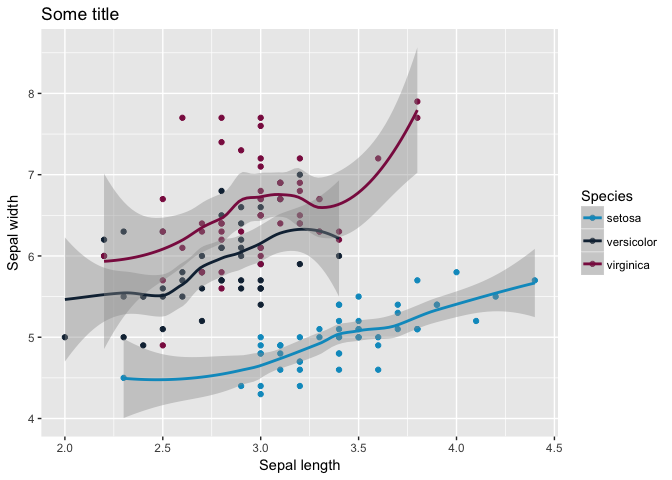
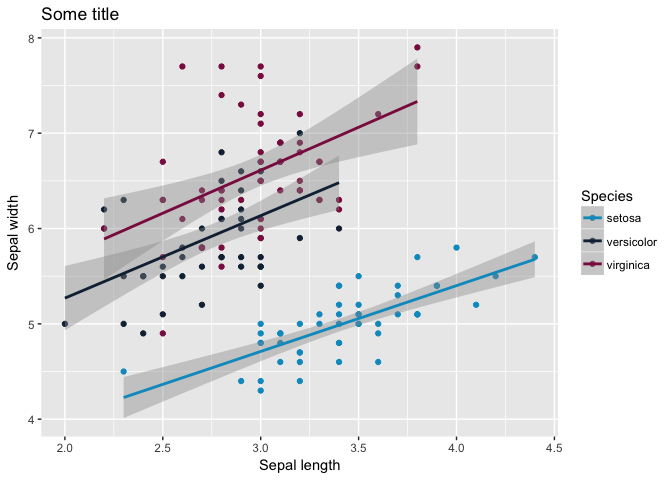
Added plots, saving plots, renamed headers

diff --git a/README.md b/README.md
@@ -1,6 +1,6 @@
 Introduction to R
 ================
-R.Slieker
+r.slieker at vumc.nl
 
 Where to get this page from:
 ----------------------------
@@ -10,8 +10,8 @@ Where to get this page from:
 Introduction
 ------------
 
-The R interface
----------------
+1) The R interface
+------------------
 
 -   Originated from proprietary S programming language
 
@@ -19,10 +19,12 @@ The R interface
 
 -   Save scripts as R files, can be opened with all kinds of software (R, Rstudio, sublime, Notepad etc. )
 
+-   Safer and more reproducible than other software: source data is not changed, scripts can be shared with others
+
 -   Save objects to Rdata files, so you can continue with it next time without the need for rerunning the complete script
 
-Other software to be used with R
---------------------------------
+2) Other software to be used with R
+-----------------------------------
 
 -   Rstudio is very useful: <https://www.rstudio.com/products/RStudio/>
 
@@ -37,12 +39,14 @@ It has many advantages: integrated help, use of tab key, more stable than Rgui.
 Suggested literature:
 ---------------------
 
+*Google is your best friend. Every question has been asked more than once by someone else*
+
 *The art of R programming, Normal Matlof, Starch Press*
 
 *Introductory Statistics with R, Peter Dalgaard, Springer*
 
-Starting simple with R
-----------------------
+3. Starting simple with R
+-------------------------
 
 ``` r
 1+1
@@ -93,8 +97,28 @@ seq(from = 1,to = 5,by=0.5)
 
     ## [1] 1.0 1.5 2.0 2.5 3.0 3.5 4.0 4.5 5.0
 
-The main classes
-----------------
+``` r
+seq(from = 1,to = 5,length.out = 100)
+```
+
+    ##   [1] 1.000000 1.040404 1.080808 1.121212 1.161616 1.202020 1.242424
+    ##   [8] 1.282828 1.323232 1.363636 1.404040 1.444444 1.484848 1.525253
+    ##  [15] 1.565657 1.606061 1.646465 1.686869 1.727273 1.767677 1.808081
+    ##  [22] 1.848485 1.888889 1.929293 1.969697 2.010101 2.050505 2.090909
+    ##  [29] 2.131313 2.171717 2.212121 2.252525 2.292929 2.333333 2.373737
+    ##  [36] 2.414141 2.454545 2.494949 2.535354 2.575758 2.616162 2.656566
+    ##  [43] 2.696970 2.737374 2.777778 2.818182 2.858586 2.898990 2.939394
+    ##  [50] 2.979798 3.020202 3.060606 3.101010 3.141414 3.181818 3.222222
+    ##  [57] 3.262626 3.303030 3.343434 3.383838 3.424242 3.464646 3.505051
+    ##  [64] 3.545455 3.585859 3.626263 3.666667 3.707071 3.747475 3.787879
+    ##  [71] 3.828283 3.868687 3.909091 3.949495 3.989899 4.030303 4.070707
+    ##  [78] 4.111111 4.151515 4.191919 4.232323 4.272727 4.313131 4.353535
+    ##  [85] 4.393939 4.434343 4.474747 4.515152 4.555556 4.595960 4.636364
+    ##  [92] 4.676768 4.717172 4.757576 4.797980 4.838384 4.878788 4.919192
+    ##  [99] 4.959596 5.000000
+
+4. The main classes
+-------------------
 
 -   Numeric and integers
 -   Characters
@@ -140,8 +164,8 @@ list(GroupA = 1:3, GroupB = 2:5 , GroupC = 3:5)
     ## $GroupC
     ## [1] 3 4 5
 
-Objects
--------
+5. Objects
+----------
 
 -   Data frames
 
@@ -223,8 +247,8 @@ mtrx*mtrx
     ## [4,]   16   81  196  361  576
     ## [5,]   25  100  225  400  625
 
-Modifying objects
------------------
+6. Modifying objects
+--------------------
 
 ``` r
 #Adding rownames to files 
@@ -311,8 +335,8 @@ mtrx[1:2] #Different!
 
     ## [1] 1 2
 
-Reading from files
-------------------
+7. Reading from files
+---------------------
 
 R can read all types of files (with or without required packages), such as txt, csv, xlsx (package: xlsx), sav spss file (package: Hmisc)
 
@@ -373,14 +397,27 @@ str(IrisTXT)
     ##  $ Petal.Width : num  0.2 0.2 0.2 0.2 0.2 0.4 0.3 0.2 0.2 0.1 ...
     ##  $ Species     : Factor w/ 3 levels "setosa","versicolor",..: 1 1 1 1 1 1 1 1 1 1 ...
 
-Summary statistics
-------------------
+8. Save to files
+----------------
 
-There are various ways of calcalating summary statistics. A useful function is **by**.
+``` r
+data(iris)
+
+# Save objects in analysis
+save(iris, file="Iris.RData")
+# Load objects from previous sessions
+load("Iris.RData")
+
+#One can also save to common formats such as csv, txt
+write.table(iris, file="Iris as text file.txt", sep="\t", col.names=T, row.names=F)
+write.table(iris, file="Iris as csv file.csv", sep=";", col.names=T, row.names=F)
+```
+
+9. Describing data using descriptive statistics
+-----------------------------------------------
 
 ``` r
 #The iris dataset is a build in dataset
-data(iris)
 
 #Describe dataset
 nrow(iris)
@@ -411,6 +448,12 @@ mean(iris$Sepal.Length)
 ```
 
     ## [1] 5.843333
+
+``` r
+median(iris$Sepal.Length)
+```
+
+    ## [1] 5.8
 
 ``` r
 sd(iris$Sepal.Length)
@@ -502,23 +545,25 @@ biocLite("IRanges")
 Plotting
 --------
 
-R base (without packages) can plot all kind of plots
+R base (without packages) can plot all kind of plots but are not very nice.
+
+ggplot2 is a very commonly used package for plotting. Although the approach is a bit different, the plots are nicer and more flexible to change. For more help see: <http://ggplot2.tidyverse.org/reference/> or google!
 
 ``` r
 library(ggplot2)
 
 #Scatter plot
-plot(IrisCSV$Sepal.Length, IrisCSV$Sepal.Width, xlab="Sepal length", ylab="Sepal width")
+plot(iris$Sepal.Length, iris$Sepal.Width, xlab="Sepal length", ylab="Sepal width")
 ```
 
 ![](README_files/figure-markdown_github-ascii_identifiers/plotting-1.png)
 
 ``` r
-ggplot(IrisCSV, aes(x=Sepal.Length, y=Sepal.Width, col=Species))+
-  geom_point()+
-  ggtitle("Some title")+
-  xlab("Sepal length")+
-  ylab("Sepal width")+
+ggplot(iris, aes(x=Sepal.Length, y=Sepal.Width, col=Species))+ # Define variables
+  geom_point()+ # We want to plot dots
+  ggtitle("Some title")+ #Add title to graph
+  xlab("Sepal length")+ #Add x-axis labels
+  ylab("Sepal width")+ #Add y-axis labels
   scale_color_manual(values = c("#009AC7","#132B41","#8B1A4F"))
 ```
 
@@ -526,13 +571,13 @@ ggplot(IrisCSV, aes(x=Sepal.Length, y=Sepal.Width, col=Species))+
 
 ``` r
 # Boxplot
-boxplot(IrisCSV$Sepal.Length~IrisCSV$Species, xlab="Sepal length", ylab="Sepal width")
+boxplot(iris$Sepal.Length~IrisCSV$Species, xlab="Sepal length", ylab="Sepal width")
 ```
 
 ![](README_files/figure-markdown_github-ascii_identifiers/plotting-3.png)
 
 ``` r
-ggplot(IrisCSV, aes(x=Species, y=Sepal.Length, fill=Species))+ #Define variables
+ggplot(iris, aes(x=Species, y=Sepal.Length, fill=Species))+ #Define variables
   geom_boxplot()+ #What kind of graph?
   ggtitle("Some title")+ #Add title to graph
   xlab("Sepal length")+ #Add x-axis labels
@@ -541,6 +586,18 @@ ggplot(IrisCSV, aes(x=Species, y=Sepal.Length, fill=Species))+ #Define variables
 ```
 
 ![](README_files/figure-markdown_github-ascii_identifiers/plotting-4.png)
+
+``` r
+# Jitter plot
+ggplot(iris, aes(x=Species, y=Sepal.Length, col=Species))+ #Define variables
+  geom_jitter(width=0.2)+
+  ggtitle("Some title")+ 
+  xlab("Sepal length")+ 
+  ylab("Sepal width")+ 
+  scale_colour_manual(values = c("#009AC7","#132B41","#8B1A4F")) 
+```
+
+![](README_files/figure-markdown_github-ascii_identifiers/plotting-5.png)
 
 ``` r
 # Smoothed line graph
@@ -553,10 +610,10 @@ ggplot(IrisCSV, aes(x=Sepal.Width, y=Sepal.Length, col=Species))+
   scale_color_manual(values = c("#009AC7","#132B41","#8B1A4F"))
 ```
 
-![](README_files/figure-markdown_github-ascii_identifiers/plotting-5.png)
+![](README_files/figure-markdown_github-ascii_identifiers/plotting-6.png)
 
 ``` r
-ggplot(IrisCSV, aes(x=Sepal.Width, y=Sepal.Length, col=Species))+
+ggplot(iris, aes(x=Sepal.Width, y=Sepal.Length, col=Species))+
   geom_point()+
   geom_smooth(method=loess)+
   ggtitle("Some title")+
@@ -565,4 +622,20 @@ ggplot(IrisCSV, aes(x=Sepal.Width, y=Sepal.Length, col=Species))+
   scale_color_manual(values = c("#009AC7","#132B41","#8B1A4F"))
 ```
 
-![](README_files/figure-markdown_github-ascii_identifiers/plotting-6.png)
+![](README_files/figure-markdown_github-ascii_identifiers/plotting-7.png)
+
+``` r
+library(ggplot2)
+
+pdf("Boxplot of iris data.pdf")
+ggplot(iris, aes(x=Species, y=Sepal.Length, fill=Species))+ #Define variables
+  geom_boxplot()+ #What kind of graph?
+  ggtitle("Some title")+ #Add title to graph
+  xlab("Sepal length")+ #Add x-axis labels
+  ylab("Sepal width")+ #Add y-axis labels
+  scale_fill_manual(values = c("#009AC7","#132B41","#8B1A4F")) # Change colors using HEX colors
+dev.off()
+```
+
+    ## quartz_off_screen 
+    ##                 2
